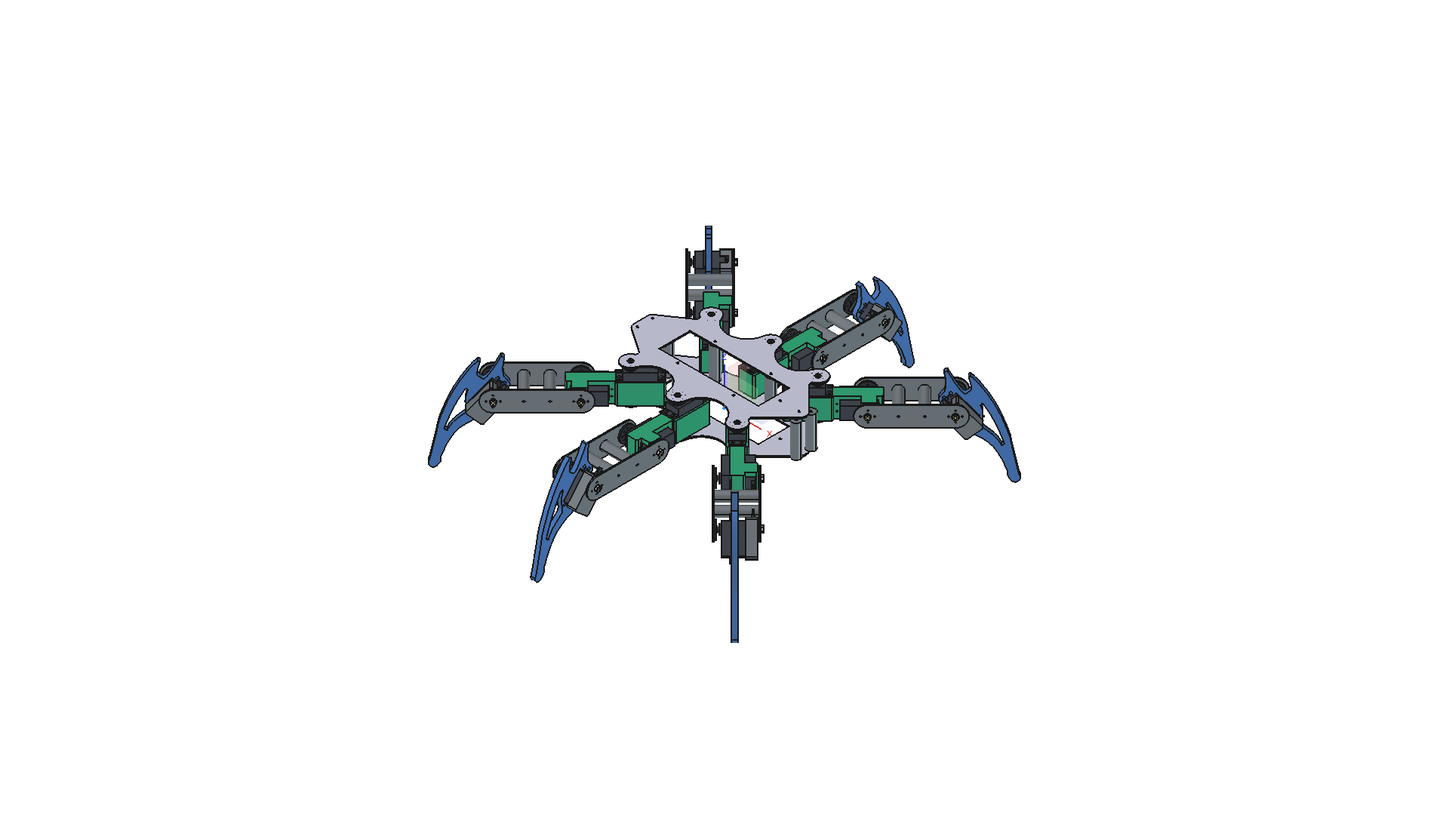
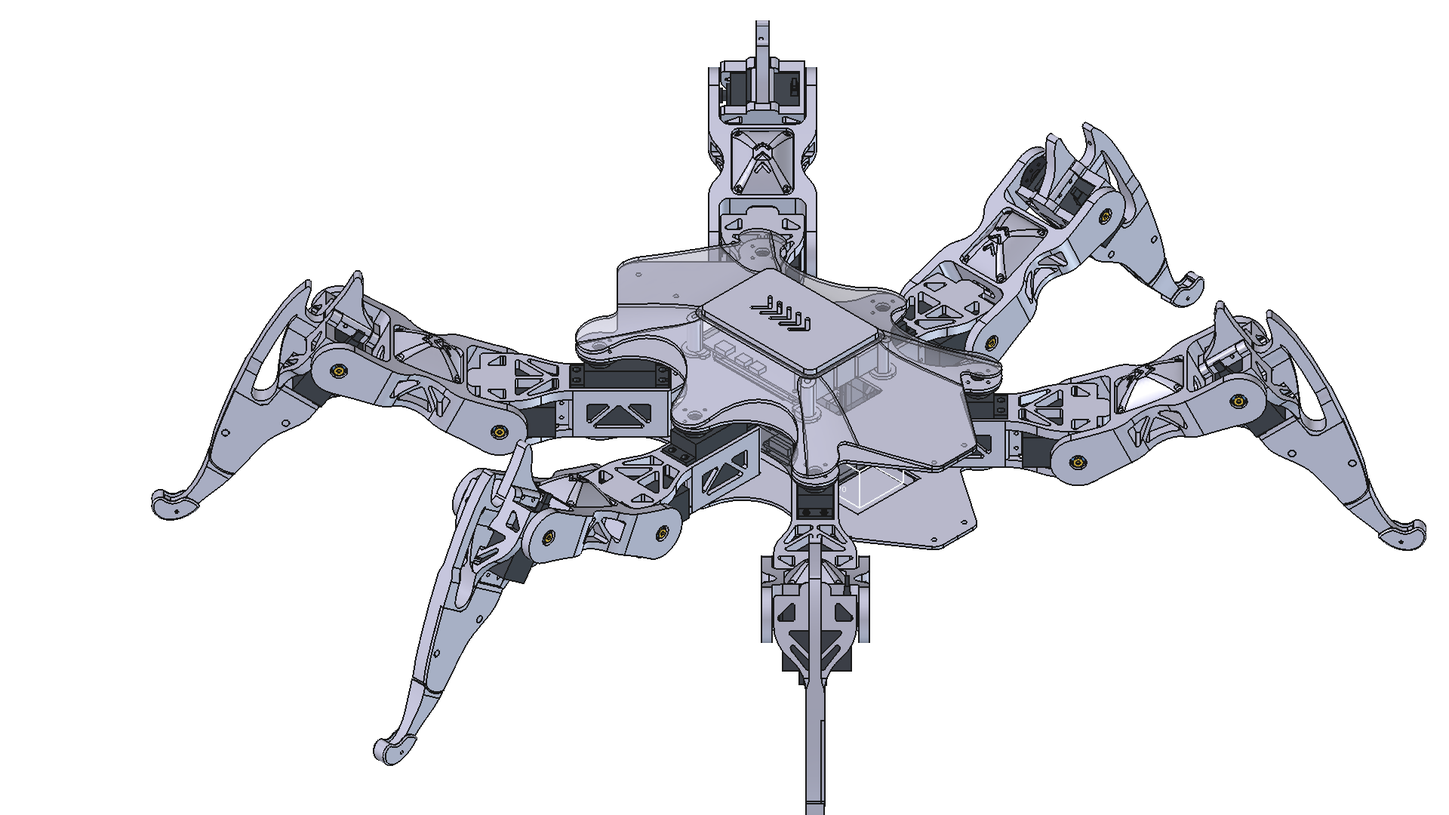
docs: translate style guide and READMEs to English and update CAD renders and dashboard screenshots

Changed region(s): [[0.0938, 0.0306, 1.0, 1.0]]

diff --git a/hardware/mechanics/STYLE_GUIDE.md b/hardware/mechanics/STYLE_GUIDE.md
@@ -1,4 +1,4 @@
-# Hexapod:Lasius – Mechanik & Hardware Style-Guide
+# Hexapod:Lasius – Mechanics & Hardware Style Guide
 
 ---
 
@@ -6,133 +6,134 @@
 
 ---
 
-Dieses Dokument definiert die verbindlichen gestalterischen, geometrischen und fertigungstechnischen Richtlinien für alle mechanischen Bauteile des **Hexapod:Lasius** (Generation v2 und Folgegenerationen).
+This document defines the binding aesthetic, geometric, and design-for-manufacturing (DfAM) guidelines for all mechanical components of **Hexapod:Lasius** (Generation v2 and subsequent generations).
 
-Das Ziel ist eine **konsistente bionische Formensprache**, maximale strukturelle Steifigkeit bei minimalem Gewicht sowie reproduzierbare Fertigungsqualität im FDM-3D-Druck (PETG).
-
----
-
-## 1. Bionische Design-DNA (*Form follows Load & Bio-Motion*)
-
-Das visuelle und konstruktive Leitbild von Lasius ist die Waldameise (*Lasius niger*):
-
-* **Keine rein dekorativen Kanten:** Jede Wölbung, Versteifungsrippe oder Aussparung folgt einem realen Kraftfluss oder Funktionsbedarf (Drehmomentabstützung, Freigang, Kabelführung, Kaminbelüftung).
-* **Fließende Übergänge ($G^1$-Stetigkeit):** Bauteile vermeiden abrupte 90°-Sprünge oder scharfkantige Querschnittsänderungen. Übergänge zwischen Funktionsabschnitten erfolgen über stetige Tangentenkurven ($G^1$).
-* **Funktionale Kapselung:** Sensoren (z. B. ADS1115 im Femur, VL53L5CX in der Belly Pan) und Leitungen werden formschlüssig in die Struktur integriert, statt nachträglich außen aufgeschraubt zu werden.
+The goal is a **consistent bionic design language**, maximum structural stiffness at minimal moving mass, and reproducible manufacturing quality in FDM 3D printing (PETG).
 
 ---
 
-## 2. Gliedmaßen- & Wangen-Geometrie (Limb & Joint Morphology)
+## 1. Bionic Design DNA (*Form Follows Load & Bio-Motion*)
+
+The visual and structural archetype of Lasius is the black garden ant (*Lasius niger*):
+
+* **No purely decorative edges:** Every curvature, stiffening rib, or cutout follows an actual load path or functional requirement (torque reaction, kinematic clearance, wire routing, or passive chimney convection).
+* **Flowing transitions ($G^1$ continuity):** Components avoid abrupt 90° steps or sharp cross-sectional jumps. Transitions between functional sections are constructed from tangent-continuous curves ($G^1$).
+* **Functional encapsulation:** Sensors (e.g., ADS1115 in the Femur, VL53L5CX in the Belly Pan) and wiring harnesses are form-fitted directly inside the structural shell rather than bolted onto the exterior afterwards.
+
+---
+
+## 2. Limb & Joint Morphology
 
 ```
-       Gelenkkopf (Apex)
-           (X_axis, Z_max)
-               /-----\
-              /       \  <-- S-Kurve 2
- S-Kurve 1   /         \____        Taille (Waist)
-   /--------/               \______/-----\
-  /                                       \_____  Käfig-Dach (Z_cage_top)
- (                                              |=========================
-  \                                       /-----' Käfig-Boden (Z_cage_bot)
-   \--------\               /------\-----/
-             \         /----'
-              \       /  <-- S-Kurve 4
-               \-----/
-           Gegenlager (Apex)
-           (X_axis, Z_min)
+         Joint Apex (Top)
+            (X_axis, Z_max)
+                /-----\
+               /       \  <-- S-Curve 2
+  S-Curve 1   /         \____         Waist
+    /--------/               \______/-----\
+   /                                       \_____  Cage Roof (Z_cage_top)
+  (                                              |=========================
+   \                                       /-----' Cage Floor (Z_cage_bot)
+    \--------\               /------\-----/
+              \         /----'
+               \       /  <-- S-Curve 4
+                \-----/
+        Counter-Bearing Apex
+            (X_axis, Z_min)
 ```
 
-### 2.1 Gelenkköpfe & Drehachsen
-* **Scheitelpunkte (Apices):** Der höchste Punkt der oberen Wange ($Z_{\text{max}}$) und der tiefste Punkt des Gegenlagers ($Z_{\text{min}}$) liegen immer exakt auf der geometrischen Drehachse des Gelenks ($X_{\text{axis}}$).
-* **Auslaufende Spitzen:** Gabel- und Wangenenden (wie bei $X = 0{,}0\,\text{mm}$ an der Coxa) dürfen nicht als plane 90°-Kappschnitte enden, sondern laufen über definierte Radien ($R \ge 3\text{--}5\,\text{mm}$) oder stetige Halbbögen organisch aus.
+### 2.1 Joint Heads & Pivot Axes
+* **Apices:** The highest point of the upper cheek ($Z_{\text{max}}$) and the lowest point of the counter-bearing boss ($Z_{\text{min}}$) always lie directly on the geometric rotation axis of the joint ($X_{\text{axis}}$).
+* **Tapered tips:** Fork and cheek terminations (such as at $X = 0.0\,\text{mm}$ on the Coxa) must never end as flat 90° chop cuts; instead, they terminate organically via defined radii ($R \ge 3\text{--}5\,\text{mm}$) or tangent semi-circular arcs.
 
-### 2.2 Anatomische Taillierung (Waist Curve)
-Zwischen zwei Gelenken verjüngt sich ein Segment nicht monoton, sondern bildet eine **anatomische Taille** (Sehnenprofil):
-1. **Oberer Kamm:** Fällt hinter dem Scheitelpunkt sanft unter die Dachhöhe des Folgekörpers ab, bildet eine leichte Einschnürung (Waist) und schwingt dann tangential auf die Anschlusshöhe auf.
-2. **Unterer Kamm:** Steigt hinter dem Gegenlager an, bildet eine korrespondierende Taillierung und läuft tangential in den Boden des Folgekörpers ein.
-3. **Mathematische Definition:**
-   * Alle Übergänge werden aus Paaren gegenläufiger Kreisbögen mit stetiger Wendepunkt-Tangente ($G^1$) konstruiert (`make_s_curve_edges`).
+### 2.2 Anatomical Waist Curve
+Between two joints, a limb segment does not taper monotonically, but forms an **anatomical waist** (tendon profile):
+1. **Upper crest:** Drops gently below the roof height of the following segment behind the joint apex, forms a smooth constriction (waist), and sweeps tangentially up to the connecting roof height.
+2. **Lower crest:** Rises behind the counter-bearing apex, forms a corresponding waist constriction, and merges tangentially into the floor of the following segment.
+3. **Mathematical definition:**
+   * All transitions are constructed from pairs of opposing circular arcs with a tangent-continuous inflection point ($G^1$, `make_s_curve_edges`).
 
 ---
 
-## 3. Fachwerk- & Gewichtsreduktions-Standards (Truss Architecture)
+## 3. Truss & Weight-Reduction Standards (Truss Architecture)
 
-Wo geschlossene Vollwände statisch nicht erforderlich sind, werden standardisierte bionische Fachwerkfenster eingesetzt.
+Where solid walls are not structurally required, standardized bionic truss windows are employed.
 
-| Parameter | Standard-Wert | Begründung |
+| Parameter | Standard Value | Engineering Rationale |
 | :--- | :--- | :--- |
-| **Stegbreite ($w_{\text{strut}}$)** | **$2{,}50\,\text{mm}$** | Exakt 6 Perimeter bei $0{,}40\,\text{mm}$ Nozzle / $0{,}42\,\text{mm}$ Linienbreite; 100 % massiv gedruckt ohne Lücken. |
-| **Fachwerk-Winkel ($\alpha$)** | **$45{,}0^\circ$** | Garantiert stützstrukturfreien FDM-Druck; optimale Schub- und Biegesteifigkeit. |
-| **Horizontale Strut-Delta ($\Delta X_{45}$)** | **$3{,}536\,\text{mm}$** | $w \cdot \sqrt{2}$; Versatz für parallele 45°-Flanken. |
-| **Eckenverrundung ($R_{\text{fillet}}$)** | **$1{,}40\text{--}2{,}00\,\text{mm}$** | Beseitigt Kerbspannungen (*Notch-Stress Reduction*) an allen Dreiecks- und Trapezecken. |
-| **Flanken-Topologie** | **Warren-Truss** | Abwechselnde $45^\circ$-Dreiecke für schlanke Biegebalken (Tibia, Coxa-Wangen). |
-| **Zentral-Topologie** | **A-Truss / Chevrons** | Pfeilförmige Chevrons mit zentralem First für Torsionsbrücken und Rumpfelemente. |
+| **Strut Width ($w_{\text{strut}}$)** | **$2.50\,\text{mm}$** | Exactly 6 perimeters at a $0.40\,\text{mm}$ nozzle / $0.42\,\text{mm}$ line width; printed 100% solid without infill gaps. |
+| **Truss Angle ($\alpha$)** | **$45.0^\circ$** | Guarantees support-free FDM printing and optimal shear/bending stiffness. |
+| **Horizontal Strut Delta ($\Delta X_{45}$)** | **$3.536\,\text{mm}$** | $w \cdot \sqrt{2}$; horizontal offset for parallel 45° diagonals. |
+| **Corner Fillet Radius ($R_{\text{fillet}}$)** | **$1.40\text{--}2.00\,\text{mm}$** | Eliminates notch stresses (*Notch-Stress Reduction*) at all triangular and trapezoidal corners. |
+| **Inner Dust-Protection Backing Wall ($t_{\text{seal}}$)** | **$1.60\,\text{mm}$** | Where truss windows border an internal electronics chamber (e.g., Femur ADS1115 bay), windows are executed as blind pockets backed by an unbroken $1.60\,\text{mm}$ (4-perimeter) inner sealing wall to protect PCBs from dust and debris. |
+| **Flank Topology** | **Warren Truss** | Alternating $45^\circ$ triangles for slender bending beams (Tibia, Coxa cheeks). |
+| **Central Topology** | **A-Truss / Chevrons** | Arrow-shaped chevrons with a central apex for torsion bridges and body segments. |
 
 ---
 
-## 4. Kanten-, Fasen- und Belüftungs-Hierarchie
+## 4. Edge, Chamfer & Ventilation Hierarchy
 
-### 4.1 Außenkanten & Lichtkanten (Tactile Fillets)
-* **Standard-Außenradius:** Exponierte Außenkanten entlang von Wangen, Kämmen und Rumpfschalen erhalten ein **$R = 1{,}0\text{--}1{,}5\,\text{mm}$ Fillet**.
-* **Zweck:** Angenehme Griffigkeit ohne scharfe Grate, verbesserte Schichthaftung an Rändern und hochwertige Lichtkanten im Rendering und Realteil.
+### 4.1 Exterior & Highlight Edges (Tactile Fillets)
+* **Standard exterior radius:** Exposed outer edges along cheeks, crests, and body shells receive an **$R = 1.0\text{--}1.5\,\text{mm}$ fillet**.
+* **Purpose:** Comfortable handling without sharp burrs, improved interlayer adhesion along edges, and clean specular highlights in renders and physical hardware.
 
-### 4.2 Funktions- & Schutzfasen (Chamfers)
-* **Kabeldurchführungen:** $45^\circ \times 1{,}0\text{--}1{,}5\,\text{mm}$ Einlauffasen an allen Kabeltunnels und Durchbrüchen (Schutz vor Durchscheuern der Servolitzen im Dauerbetrieb).
-* **Steckermontagen & Fügefalze:** $45^\circ \times 0{,}5\,\text{mm}$ Fügefasen für spielfreies Ineinanderschieben von Kappen und Deckeln.
+### 4.2 Functional & Protective Chamfers / Fillets
+* **Cable pass-throughs:** $R = 1.0\text{--}1.5\,\text{mm}$ lead-in fillets or $45^\circ \times 1.0\text{--}1.5\,\text{mm}$ chamfers at all cable tunnels and apertures to prevent insulation chafing during continuous motion.
+* **Connector & lid rebates:** $45^\circ \times 0.5\,\text{mm}$ assembly chamfers for zero-backlash mating of covers and caps.
 
-### 4.3 Bionische Belüftungs-Louvers (`>>>`)
-Elektronikkammern (BCM2711 SoC, Femur-ADC-Kammer) nutzen einheitliche bionische Kamin-Lamellen:
-* **Form:** $45^\circ$ nach vorn gepfeilte Schlitze mit abgerundeten Kapsel-/Pillenenden.
-* **Geometrie:** Schlitzbreite $2{,}5\text{--}3{,}0\,\text{mm}$, Lamellensteg $3{,}0\text{--}4{,}0\,\text{mm}$, Tiefenwinkel $45^\circ$ für regengeschützte passive Konvektion.
-
----
-
-## 5. Fertigungsgerechte Konstruktion (DfAM für PETG & CFK-Platten)
-
-* **Chassis-Platten (Hardware-Freeze):** Die beiden $2{,}0\,\text{mm}$ Kohlefaser-Platten ([`body_bottom.FCStd`](models/custom/v1/parts/body_bottom.FCStd) und [`body_top.FCStd`](models/custom/v1/parts/body_top.FCStd)) **existieren bereits als physische, fertig gefräste CFK-Hardware** und sind das **einzige Bauteil, das unverändert aus Generation `v1` in `v2` übernommen wird**. Sie definieren die geometrische Referenz (Bohrungsraster, Außenkontur) für alle v2-Rumpfkomponenten.
-* **FDM-3D-Druckteile:** Alle weiteren mechanischen Eigenkonstruktionen (Beine, Monocoque-Zentralkern, Belly Pan, Canopy, Deckel, Montageblöcke) sind primär für den FDM-Druck aus **PETG** (sowie TPU 95A für Kufen-Dämpfungsschuhe) auf Standard-Druckbetten ($256 \times 256\,\text{mm}$) optimiert.
-
-### 5.1 Wandstärken-Klassen
-* **Klasse 1 – Leichte Abdeckungen & Hauben:** $1{,}60\text{--}2{,}00\,\text{mm}$ (4 Perimeter, formsteif durch Doppelkrümmung).
-* **Klasse 2 – Fachwerkstreben & Rippen:** $2{,}50\,\text{mm}$ (massiv aus Perimetern aufgebaut).
-* **Klasse 3 – Gelenkwangen & tragende Hauptträger:** $5{,}00\text{--}6{,}20\,\text{mm}$ (maximale Torsions- und Biegesteifigkeit).
-* **Klasse 4 – Servohorn-Aufnahmen & Drehmomenteinleitung:** $\ge 3{,}50\text{--}4{,}50\,\text{mm}$ massives Material um Schraubenkränze.
-
-### 5.2 Normteil-Sitze & Passungen
-* **Kugellager 684ZZ ($\varnothing 8 \times 3\,\text{mm}$):**
-  * Bohrung: $\varnothing 8{,}05\,\text{mm}$ (leichte Presspassung für FDM).
-  * Bundkragen: $R = 3{,}30\,\text{mm}$ ($0{,}30\,\text{mm}$ Überstand über Lageraußenring), damit nur der Innenring geklemmt wird und das Gelenk leichtgängig dreht.
-* **Flachmutter DIN 439 M4 (Gegenlager-Gewindesitz):**
-  * Sechskanttasche: Schlüsselweite $SW = 7{,}10\,\text{mm}$, Taschentiefe $2{,}40\,\text{mm}$.
-  * Fester Anschlagkragen: $0{,}60\,\text{mm}$ Restwand zur Durchgangsbohrung ($\varnothing 4{,}10\,\text{mm}$).
-* **Gewindeeinsätze (Ruthex M2 / M2.5 / M3):**
-  * Bohrungsdurchmesser exakt nach Hersteller-Datenblatt mit $8^\circ$-Einlaufsenkung für sauberes thermisches Einschmelzen.
+### 4.3 Bionic Ventilation Louvers (`>>>`)
+Electronics enclosures (BCM2711 SoC service cover, Femur ADC cover) use unified bionic chimney louvers:
+* **Shape:** $45^\circ$ forward-swept chevron slots with rounded pill ends.
+* **Geometry:** Slot width $2.5\text{--}3.0\,\text{mm}$, louver web $3.0\text{--}4.0\,\text{mm}$, depth angle $45^\circ$ for drip-protected passive convection.
 
 ---
 
-## 6. Farb- & Materialkodierung (Visual Identity in CAD & Digital Twin)
+## 5. Design for Additive Manufacturing (DfAM for PETG & CFRP Plates)
 
-Zur eindeutigen visuellen Unterscheidbarkeit in FreeCAD und im Three.js Digital Twin gilt folgende Farbpalette:
+* **Chassis Plates (Hardware Freeze):** The two $2.0\,\text{mm}$ carbon-fiber plates ([`body_bottom.FCStd`](models/custom/v1/parts/body_bottom.FCStd) and [`body_top.FCStd`](models/custom/v1/parts/body_top.FCStd)) **already exist as physical, CNC-milled CFRP hardware** and are the **only component inherited unchanged from Generation `v1` into `v2`**. They define the immutable geometric reference (hole pattern, outer contour) for all v2 torso components.
+* **FDM 3D-Printed Parts:** All other custom mechanical components (legs, monocoque central core, belly pan, canopy, covers, mounting blocks) are optimized for FDM printing in **PETG** (and TPU 95A for damping foot shoes) on standard build plates ($256 \times 256\,\text{mm}$).
 
-| Baugruppe / Rolle | Farbe | RGB-Werte | Material / Finish |
+### 5.1 Wall-Thickness Classes
+* **Class 1 – Lightweight Covers, Canopies & Inner Chamber Seals:** $1.60\text{--}2.00\,\text{mm}$ (4 perimeters; dimensionally rigid and dust-tight).
+* **Class 2 – Truss Struts & Ribs:** $2.50\,\text{mm}$ (built solidly from perimeter walls).
+* **Class 3 – Joint Cheeks & Primary Structural Beams:** $5.00\text{--}6.20\,\text{mm}$ (maximum torsional and bending stiffness).
+* **Class 4 – Servo-Horn Bosses & Torque Introduction:** $\ge 3.50\text{--}4.50\,\text{mm}$ solid material around screw bolt circles.
+
+### 5.2 Standard Hardware Seats & Fits
+* **Ball Bearing 684ZZ ($\varnothing 8 \times 3\,\text{mm}$):**
+  * Bore: $\varnothing 8.05\,\text{mm}$ (light interference fit for FDM).
+  * Retention shoulder collar: $R = 3.30\,\text{mm}$ ($0.30\,\text{mm}$ step over bearing outer ring) so only the inner race is clamped and the joint rotates freely.
+* **Thin Hex Nut DIN 439 M4 (Counter-Bearing Thread Seat):**
+  * Hex pocket: width across flats $SW = 7.10\,\text{mm}$, pocket depth $2.40\,\text{mm}$.
+  * Solid stop shoulder: $0.60\,\text{mm}$ residual wall to through-bore ($\varnothing 4.10\,\text{mm}$).
+* **Heat-Set Threaded Inserts (Ruthex M2 / M2.5 / M3):**
+  * Bore diameters strictly per manufacturer datasheet with an $8^\circ$ lead-in countersink for clean thermal installation.
+
+---
+
+## 6. Color & Material Coding (Visual Identity in CAD & Digital Twin)
+
+For clear visual identification in FreeCAD and in the Three.js Digital Twin, the following color palette applies:
+
+| Subsystem / Role | Color | RGB Values | Material / Finish |
 | :--- | :--- | :--- | :--- |
-| **Strukturteile Chassis & Beine** | Anthrazit / Schiefergrau | `(0.20, 0.22, 0.25)` | PETG matt / Carbon |
-| **Gelenkwangen & Halterungen** | Technisches Mittelblau | `(0.12, 0.35, 0.65)` | PETG matt |
-| **Wartungsdeckel & Kappen** | Graphitschwarz | `(0.15, 0.15, 0.18)` | PETG Feinstruktur |
-| **Plexiglas-Canopy** | Eisblau-Transluzent (55 % Alpha) | `(0.85, 0.92, 0.98)` | Acrylglas / Tiefzieh |
-| **LiPo-Akku (COTS)** | Signalgold / Gelb | `(0.95, 0.75, 0.10)` | Schrumpfschlauch |
-| **PWM-Servotreiber PCA9685** | Adafruit-Signalblau | `(0.04, 0.38, 0.88)` | PCB |
-| **I2C-Multiplexer TCA9548A** | Signalviolett | `(0.58, 0.15, 0.75)` | PCB |
-| **Raspberry Pi 4 Model B** | Signalgrün | `(0.10, 0.55, 0.25)` | PCB |
+| **Structural Chassis & Limb Parts** | Anthracite / Slate Grey | `(0.20, 0.22, 0.25)` | Matte PETG / Carbon |
+| **Joint Cheeks & Brackets** | Technical Medium Blue | `(0.12, 0.35, 0.65)` | Matte PETG |
+| **Service Covers & Caps** | Graphite Black | `(0.15, 0.15, 0.18)` | Fine-texture PETG |
+| **Plexiglas Canopy** | Ice-Blue Translucent (55% Alpha) | `(0.85, 0.92, 0.98)` | PMMA Acrylic / Thermoformed |
+| **LiPo Battery Pack (COTS)** | Signal Gold / Yellow | `(0.95, 0.75, 0.10)` | Heat-shrink wrap |
+| **PWM Servo Driver PCA9685** | Adafruit Signal Blue | `(0.04, 0.38, 0.88)` | PCB |
+| **I2C Multiplexer TCA9548A** | Signal Purple | `(0.58, 0.15, 0.75)` | PCB |
+| **Raspberry Pi 4 Model B** | Signal Green | `(0.10, 0.55, 0.25)` | PCB |
 
 ---
 
-## 7. Parametrischer Code-Standard (Hardware-as-Code)
+## 7. Parametric Code Standard (Hardware-as-Code)
 
-Jedes CAD-Generatorskript in `hardware/mechanics/scripts/v2/` folgt dieser Struktur:
-1. **Konstanten-Block am Dateianfang:** Keine hartcodierten magischen Zahlen im Modellierungscode; alle Abmessungen ($W_{\text{STRUT}}$, $R_{\text{FILLET}}$, Achsabstände) werden oben zentral deklariert.
-2. **Modulare Geometrie-Helfer:**
-   * `make_s_curve_edges(p1, p2)` für $G^1$-stetige S-Kurven.
-   * `make_filleted_polygon_2d(pts, r_list)` für verrundete Fachwerkfenster.
-   * `make_hex_nut_pocket_z(cx, cy, z1, z2, sw)` für Mutternsitze.
-3. **Fertigungsexporte ausschließlich auf explizite Benutzeranforderung:** Skripte erzeugen im Standarddurchlauf rein die parametrischen `.FCStd`-Modelle. STEP-, STL- oder DXF-Dateien werden **niemals eigenmächtig oder während iterativer Entwicklungsphasen exportiert**, und es wird **nicht danach gefragt**. Fertigungsexporte werden erst und ausschließlich dann erzeugt, wenn der Benutzer sie explizit anfordert (*„ich fordere die exporte an wenn es soweit ist“*). Assemblies (`*_assembly`) erhalten grundsätzlich **keine** Exporte.
+Every CAD generator script in `hardware/mechanics/scripts/v2/` follows this structure:
+1. **Constants block at top of file:** No hardcoded magic numbers inside modeling routines; all dimensions ($W_{\text{STRUT}}$, $R_{\text{FILLET}}$, inter-axis distances) are declared centrally at the top.
+2. **Modular geometry helpers:**
+   * `make_s_curve_edges(p1, p2)` for $G^1$-continuous S-curves.
+   * `make_filleted_polygon_2d(pts, r_list)` for corner-filleted truss windows.
+   * `make_hex_nut_pocket_z(cx, cy, z1, z2, sw)` for hex nut seats.
+3. **Manufacturing exports exclusively upon explicit user request:** By default, generator scripts output only the parametric `.FCStd` models. STEP, STL, or DXF manufacturing files are **never exported proactively or during iterative development phases**, and the user is **never asked** whether exports should be generated. Manufacturing exports are generated only when explicitly requested by the user. Assemblies (`*_assembly`) never receive manufacturing exports.

diff --git a/hardware/mechanics/README.md b/hardware/mechanics/README.md
@@ -50,32 +50,30 @@ CAD engineering, digital fabrication exports, and assembly models for the **Lasi
 
 ### 3. Custom Generation v2 (`models/custom/v2/` & `models/custom/v2/parts/`)
 > [!NOTE]
-> Für anstehende Modelländerungen und Verifikationsschritte siehe die [**Generation v2 Todo-Liste**](models/custom/v2/TODO.md).
+> For upcoming model tasks and verification steps, see the [**Generation v2 Backlog / TODO List**](models/custom/v2/TODO.md).
 
 - **Monolithic Coxa v2 ([`coxa.FCStd`](models/custom/v2/parts/coxa/coxa.FCStd)):**
-  - Monolithic 3D-printed Coxa joint segment replacing the v1 bracket plates, featuring bionic 45° A-truss and Warren lightweight windows, seamless $G^1$-continuous cheek profiles, an inverted M4 counter-bearing seat (Option A), and integrated Coxa servo mounting cage.
+  - Monolithic 3D-printed Coxa joint segment replacing the v1 bracket plates, featuring unified bionic 45° A-truss windows ($w = 2.50\,\text{mm}$, $R = 1.40\,\text{mm}$), seamless $G^1$-continuous cheek profiles, an inverted M4 counter-bearing seat (Option A), and an integrated twin-servo mounting cage.
 - **Organic Monolithic Femur & ADC Housing ([`femur.FCStd`](models/custom/v2/parts/femur/femur.FCStd)):**
-  - Monolithic 3D-printed double-wrench femur ($L = 100.0\,\text{mm}$ pivot-to-pivot) replacing the 2-plate + 2-spacer v1 cage, featuring an internal chamber for the leg's encapsulated ADS1115 16-bit I²C ADC (`0x48`), internal cable channels, Option C vibration-free PCB clamping pins, and a modular two-piece service cover: `Femur_Cover_Frame` (Graphitschwarz PETG bezel) and `Femur_Canopy` (Eisblau-transluzente Haube mit bionischen 45°-Chevron-Kühlschlitzen).
-  - **FEA-Topologieoptimierung (Leichtbau):** Bionische $45^\circ$-Fachwerkfenster, 5-Feld Warren-Flankengitter, Stirnwandtaschen und Unterbodenaussparungen reduzieren die Masse um **$-21{,}9\,\%$ auf $64{,}08\,\text{g}$** bei vollem Sicherheitsbeiwert von **$S = 2{,}72$** unter Knie-Servo Blockiermoment ($1{,}2\,\text{N}\cdot\text{m}$). Details siehe [**Femur FEA-Topologieoptimierungsbericht**](../../docs/hardware/femur_topology_optimization_report.md).
-- **Monolithic Tibia v2 ([`tibia.FCStd`](models/custom/v2/parts/tibia/tibia.FCStd)):**
-  - Merges the sickle claw (`tibia`) and counter-bearing foot (`tibia_servo_foot`) into a single 3D-printed component connected via 4 organic hourglass-waisted corner struts (*Eckstege*).
-- **Chassis Exoskeleton Top Cover v2 ([`chassis_top_cover.FCStd`](models/custom/v2/parts/chassis/chassis_top_cover.FCStd)):**
-  - Aerodynamic chitinous canopy mounted to the upper chassis surface ($Z \ge 55.3\,\text{mm}$) featuring an internal electronics dome ($13.6\,\text{mm}$ height clearance), 5x thermal convection chevron louvers over the Raspberry Pi 4 SoC, and a front CSI camera ribbon pass-through slot.
+  - Monolithic 3D-printed double-wrench femur ($L = 100.0\,\text{mm}$ pivot-to-pivot) replacing the 2-plate + 2-spacer v1 cage, featuring an internal chamber for the leg's encapsulated ADS1115 16-bit I²C ADC (`0x48`), blind 45° A-truss flank pockets backed by an unbroken $1.60\,\text{mm}$ (4-perimeter) inner dust-protection wall, internal cable channels with $R = 1.50\,\text{mm}$ anti-chafe mouth fillets, Option C vibration-free PCB clamping pins, and a removable service cover ([`femur_cover.FCStd`](models/custom/v2/parts/femur/femur_cover.FCStd)).
+  - **FEA Structural Verification:** CalculiX C3D10 finite-element analysis confirms full structural integrity across all operating load cases including knee-servo stall torque ($1.2\,\text{N}\cdot\text{m}$). For full details, see the [**Femur FEA & Topology Optimization Report**](../../docs/hardware/femur_topology_optimization_report.md).
+- **Monolithic Tibia & Spring-Loaded Tarsus v2 ([`tibia.FCStd`](models/custom/v2/parts/tibia/tibia.FCStd), [`tarsus.FCStd`](models/custom/v2/parts/tarsus/tarsus.FCStd), [`tarsus_shoe.FCStd`](models/custom/v2/parts/tarsus/tarsus_shoe.FCStd)):**
+  - Monolithic lower limb featuring unified 45° A-truss servo-cage cheeks, a concentric Krallen-Sichel teardrop window with a $2.50\,\text{mm}$ tapered lower web, and an internal guide pocket for the spring-loaded 3D-exoskeleton [`tarsus.FCStd`](models/custom/v2/parts/tarsus/tarsus.FCStd), subminiature ground-contact microswitch, and compact [`tarsus_shoe.FCStd`](models/custom/v2/parts/tarsus/tarsus_shoe.FCStd) Kufe.
+- **Chassis Draped Canopy & Service Cover v2 ([`chassis_canopy.FCStd`](models/custom/v2/parts/chassis/chassis_canopy.FCStd), [`chassis_service_cover.FCStd`](models/custom/v2/parts/chassis/chassis_service_cover.FCStd)):**
+  - Translucent exoskeleton canopy mounted above the upper chassis plate ($Z \ge 55.3\,\text{mm}$) paired with a removable graphite service cover featuring 5× $45^\circ$ thermal convection chevron louvers over the Raspberry Pi 4 SoC.
 - **Chassis Belly Pan & Skid Plate v2 ([`chassis_belly_pan.FCStd`](models/custom/v2/parts/chassis/chassis_belly_pan.FCStd)):**
-  - Contoured boat-hull skid plate mounted to the chassis underside ($Z \le 0.0\,\text{mm}$) with approach ramps, internal wiring cavity, and integrated mounting recess with a $45^\circ$-chamfered optical aperture for the downward-facing 9-zone ToF terrain distance sensor (VL53L5CX).
-- **Electronics Mounting Tray v2 ([`electronics_tray.FCStd`](models/custom/v2/parts/electronics_tray/electronics_tray.FCStd)):**
-  - Central 3D-printed mounting deck ($Z = 18.0\,\text{mm}$) held by 4 standoff collar mounts ($\varnothing 14.2\,\text{mm}$), hosting the Raspberry Pi 4 Model B, 2× PCA9685 16-channel servo drivers, and TCA9548A I²C multiplexer with integrated cable comb channels and zip-tie anchor bridges.
-- **Electronics Tray & Power Subassembly v2 ([`electronics_tray_assembly.FCStd`](models/custom/v2/electronics_tray_assembly.FCStd)):**
-  - Modular interior subassembly integrating the 3D-printed mounting tray with Raspberry Pi 4 Model B (green), 2× PCA9685 PWM drivers (blue), TCA9548A I²C multiplexer (purple), and the 2S LiPo battery pack (vivid gold) suspended underneath the deck.
-- **Complete Modular Leg Assembly v2 ([`leg_assembly.FCStd`](models/custom/v2/leg_assembly.FCStd)):**
-  - Modular leg subassembly combining the monolithic v2 [`coxa.FCStd`](models/custom/v2/parts/coxa/coxa.FCStd) with the v2 [`femur.FCStd`](models/custom/v2/parts/femur/femur.FCStd) and [`tibia.FCStd`](models/custom/v2/parts/tibia/tibia.FCStd).
+  - Contoured boat-hull skid plate mounted to the chassis underside ($Z \le 0.0\,\text{mm}$) with approach ramps, internal wiring cavity, and an integrated mounting recess with a $45^\circ$-chamfered optical aperture for the downward-facing 9-zone ToF terrain distance sensor (VL53L5CX).
+- **Monocoque Central Chassis Core v2 ([`chassis_core.FCStd`](models/custom/v2/parts/chassis/chassis_core.FCStd)):**
+  - Monolithic 3D-printed structural core spanning the $51.3\,\text{mm}$ gap between the bottom and top carbon plates, replacing the 8 individual v1 standoff pillars and encapsulating the 2S LiPo battery bay, dual PCA9685 PWM drivers, and TCA9548A I²C multiplexer.
+- **Complete Modular Leg Assembly v2 ([`leg_assembly.FCStd`](models/custom/v2/leg_assembly.FCStd) & [`leg_right_assembly.FCStd`](models/custom/v2/leg_right_assembly.FCStd)):**
+  - Modular left and right leg subassemblies combining the monolithic v2 [`coxa.FCStd`](models/custom/v2/parts/coxa/coxa.FCStd), [`femur_assembly.FCStd`](models/custom/v2/femur_assembly.FCStd), and [`tibia_assembly.FCStd`](models/custom/v2/tibia_assembly.FCStd) with [`tarsus_assembly.FCStd`](models/custom/v2/tarsus_assembly.FCStd).
 - **Complete Full-Body Assembly v2 ([`body_assembly.FCStd`](models/custom/v2/body_assembly.FCStd)):**
   - Master full-robot assembly (v2) integrating:
-    - **Chassis-Platten (Hardware-Freeze):** Die beiden $2{,}0\,\text{mm}$ CFK-Carbonplatten ([`body_bottom.FCStd`](models/custom/v1/parts/body_bottom.FCStd) und [`body_top.FCStd`](models/custom/v1/parts/body_top.FCStd)) **existieren bereits als physische Teile** und sind das **einzige Artefakt, das aus v1 übernommen wird**. Alle anderen v1-Eigenkonstruktionen sind obsolet.
-    - 6× modulare v2 Beinbaugruppen ([`leg_assembly.FCStd`](models/custom/v2/leg_assembly.FCStd)).
-    - 3D-Druck-Rumpfkörper: Monocoque Central Core ([`chassis_core.FCStd`](models/custom/v2/parts/chassis/chassis_core.FCStd)), [`chassis_belly_pan.FCStd`](models/custom/v2/parts/chassis/chassis_belly_pan.FCStd) (mit nach unten gerichtetem VL53L5CX ToF-Sensor), Montageplatte ([`chassis_rpi_mount.FCStd`](models/custom/v2/parts/chassis/chassis_rpi_mount.FCStd)), Service-Abdeckung ([`chassis_service_cover.FCStd`](models/custom/v2/parts/chassis/chassis_service_cover.FCStd)) und Acryl-Canopy ([`chassis_canopy.FCStd`](models/custom/v2/parts/chassis/chassis_canopy.FCStd)).
-    - Modulares Innenleben: 2× PCA9685 + TCA9548A + 2S LiPo-Akku.
-    - Verarbeitungsplattform: Raspberry Pi 4 Model B zentriert auf der oberen Montageplatte unter dem Kamin-Wartungsdeckel.
+    - **Chassis Plates (Hardware Freeze):** The two $2.0\,\text{mm}$ CFRP carbon-fiber plates ([`body_bottom.FCStd`](models/custom/v1/parts/body_bottom.FCStd) and [`body_top.FCStd`](models/custom/v1/parts/body_top.FCStd)) **already exist as physical CNC-milled parts** and are the **only component inherited unchanged from v1**. All other v1 custom parts are obsolete.
+    - 6× modular v2 leg subassemblies ([`leg_assembly.FCStd`](models/custom/v2/leg_assembly.FCStd) / [`leg_right_assembly.FCStd`](models/custom/v2/leg_right_assembly.FCStd)).
+    - 3D-printed torso structure: Monocoque Central Core ([`chassis_core.FCStd`](models/custom/v2/parts/chassis/chassis_core.FCStd)), [`chassis_belly_pan.FCStd`](models/custom/v2/parts/chassis/chassis_belly_pan.FCStd) (with downward-facing VL53L5CX ToF sensor), upper mounting frame ([`chassis_rpi_mount.FCStd`](models/custom/v2/parts/chassis/chassis_rpi_mount.FCStd)), service cover ([`chassis_service_cover.FCStd`](models/custom/v2/parts/chassis/chassis_service_cover.FCStd)), and translucent acrylic canopy ([`chassis_canopy.FCStd`](models/custom/v2/parts/chassis/chassis_canopy.FCStd)).
+    - Encapsulated electronics core: 2× PCA9685 + TCA9548A + 2S LiPo battery pack.
+    - Compute platform: Raspberry Pi 4 Model B centered on the upper mounting frame beneath the louvered service cover.
 
 ---
 

diff --git a/software/lasius-dashboard/README.md b/software/lasius-dashboard/README.md
@@ -29,7 +29,7 @@ The dashboard is accessible online at [**https://dashboard.lasius.kaemmereit.de/
 ### Additive Simulation Mode (`src/demo/`)
 When the dashboard is accessed without an active Raspberry Pi robot connection (e.g. public hosting), it automatically activates a self-contained, client-side kinematics simulation:
 - **In-Browser Gait Engine (`demoGaitEngine.ts`):** Complete TypeScript port of the 50 Hz harmonic cosine tripod, ripple, and wave gait generator with $C^1$-continuous foot trajectories.
-- **Closed-Form 3-DOF Inverse Kinematics:** Computes exact Coxa, Femur, and Tibia angles using the Law of Cosines for the 60 mm / 100 mm / 130 mm limb geometry.
+- **Closed-Form 3-DOF Inverse Kinematics:** Computes exact Coxa, Femur, and Tibia angles using the Law of Cosines for the 60 mm / 100 mm / 152.6 mm v2 limb geometry.
 - **Full Teleoperation Interactivity:** Supports omnidirectional translation, rotation, and 6-DOF body posing (height $-120 \dots -40\,\text{mm}$, roll $\pm 25^\circ$, pitch $\pm 25^\circ$) via:
   - On-screen Direction Pad and slider controls
   - Keyboard hotkeys (`W`/`A`/`S`/`D`, `Q`/`E`, `Space`)
@@ -51,8 +51,8 @@ When the dashboard is accessed without an active Raspberry Pi robot connection (
 ## Views & Viewport System
 
 - **Interactive 3D WebGL Digital Twin:**
-  - Full-mesh 3D representation based on physical CAD geometry: dual carbon-fiber sandwich plates, 8 standoff pillars, Coxa brackets, Femur beam cages, and curved Tibia sickles.
-  - Consistent PBR metal-roughness materials (`#343746`) with forward-facing orientation chevron (`#3498db`).
+  - Full-mesh 3D representation synchronized 1:1 with the 29 canonical FreeCAD v2 Binary STL meshes: dual carbon-fiber sandwich plates, monocoque central core, belly pan, translucent Plexiglas canopy & service cover, 45° A-truss Coxa & Femur cages, and Krallen-Sichel Tibia blades with unified-color 3D-Exoskeleton Tarsus and compact Kufe shoes.
+  - Consistent PBR metal-roughness materials (`#343848`) with forward-facing orientation chevron (`#38bdf8`).
   - Full OrbitControls navigation (Left-drag rotate, Right-drag pan, Wheel zoom).
 - **Multi-View 2D Orthographic Projections:**
   - Clean CAD orthographic projections using straight kinematic vectors:

diff --git a/docs/README.md b/docs/README.md
@@ -20,8 +20,8 @@ Specifications, architectural decisions, wiring schematics, and development road
   Audio learning script covering physical CAD modeling, PyBullet simulation, kinematics, and software architecture.
 
 ### Hardware & Electronics
-- [**Femur FEA-Strukturanalyse & Bionische Topologieoptimierung**](hardware/femur_topology_optimization_report.md):
-  Vollständiger FEM-Prüfbericht zur Leichtbau-Topologieoptimierung des Lasius Femurs v2 mit CalculiX & Gmsh über 3 Betriebs-Lastfälle ($-21{,}9\,\%$ Bauteilmasse, $S = 2{,}72$ unter Servo-Blockiermoment).
+- [**Femur FEA Structural Analysis & Bionic Topology Optimization**](hardware/femur_topology_optimization_report.md):
+  Complete FEM verification report covering the lightweight topology optimization of the Lasius Femur v2 using CalculiX & Gmsh across 3 operating load cases ($-21.9\,\%$ component mass reduction, safety factor $S = 2.72$ under knee-servo stall torque).
 - [**Electronics Testbench Bring-Up Status & Handover**](hardware/testbench_bringup_status.md):
   **Active Focus:** Status of the 6-step bench Bring-Up for the TCA9548A I2C multiplexer and ADS1115 16-bit ADCs.
 - [**Electronics Testbench Reference Guide**](hardware/electronics_testbench_guide.md):

diff --git a/README.md b/README.md
@@ -16,7 +16,7 @@
   <a href="software/lasius-core/README.md"><img src="https://img.shields.io/badge/Locomotion-50Hz%20Harmonic%20Cosine-0284c7.svg" alt="50 Hz Harmonic Gait"></a>
   <a href="hardware/README.md"><img src="https://img.shields.io/badge/Hardware-18%20DOF%20%7C%20CFRP%20Sandwich-orange.svg" alt="18 DOF Robot Hardware"></a>
   <a href="software/lasius-core/README.md"><img src="https://img.shields.io/badge/API-OpenAPI%203.1-6BA539.svg?logo=openapiinitiative&logoColor=white" alt="OpenAPI 3.1"></a>
-  <a href="scripts/dev/run_tests.sh"><img src="https://img.shields.io/badge/Tests-66%20Passing%20(100%25)-success.svg" alt="66 Passing Tests"></a>
+  <a href="scripts/dev/run_tests.sh"><img src="https://img.shields.io/badge/Tests-71%20Passing%20(100%25)-success.svg" alt="71 Passing Tests"></a>
 </p>
 <p align="left">
   <a href="https://github.com/vern-da-coda/lasius/actions/workflows/ci.yml"><img src="https://github.com/vern-da-coda/lasius/actions/workflows/ci.yml/badge.svg" alt="Continuous Integration"></a>
